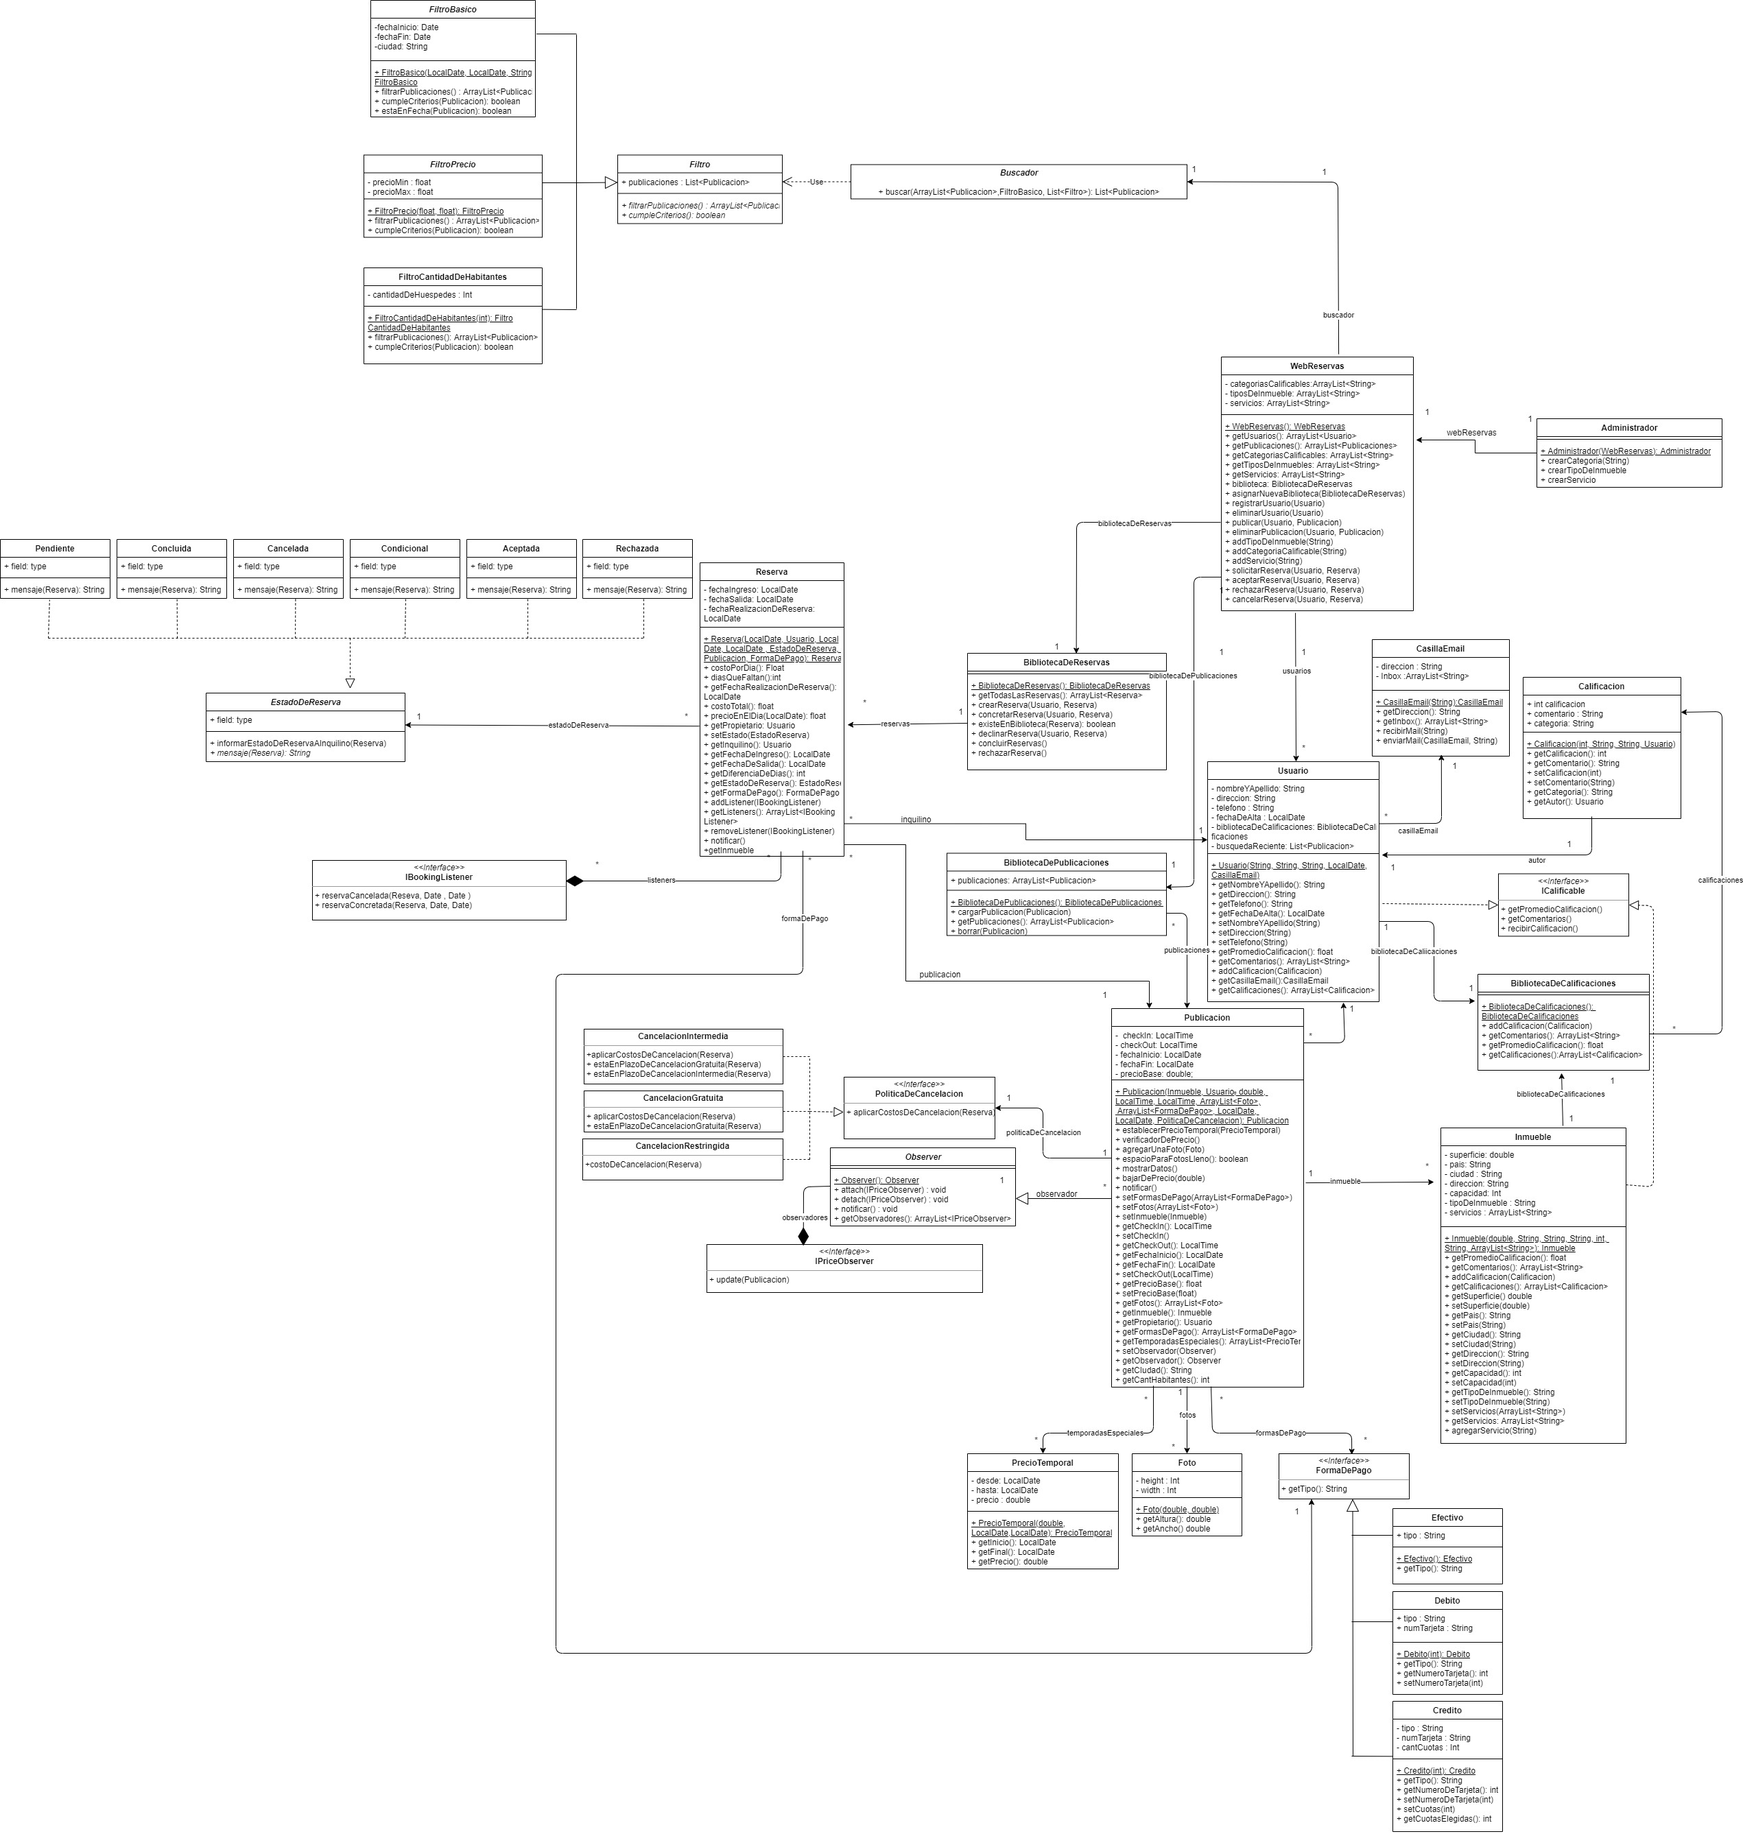
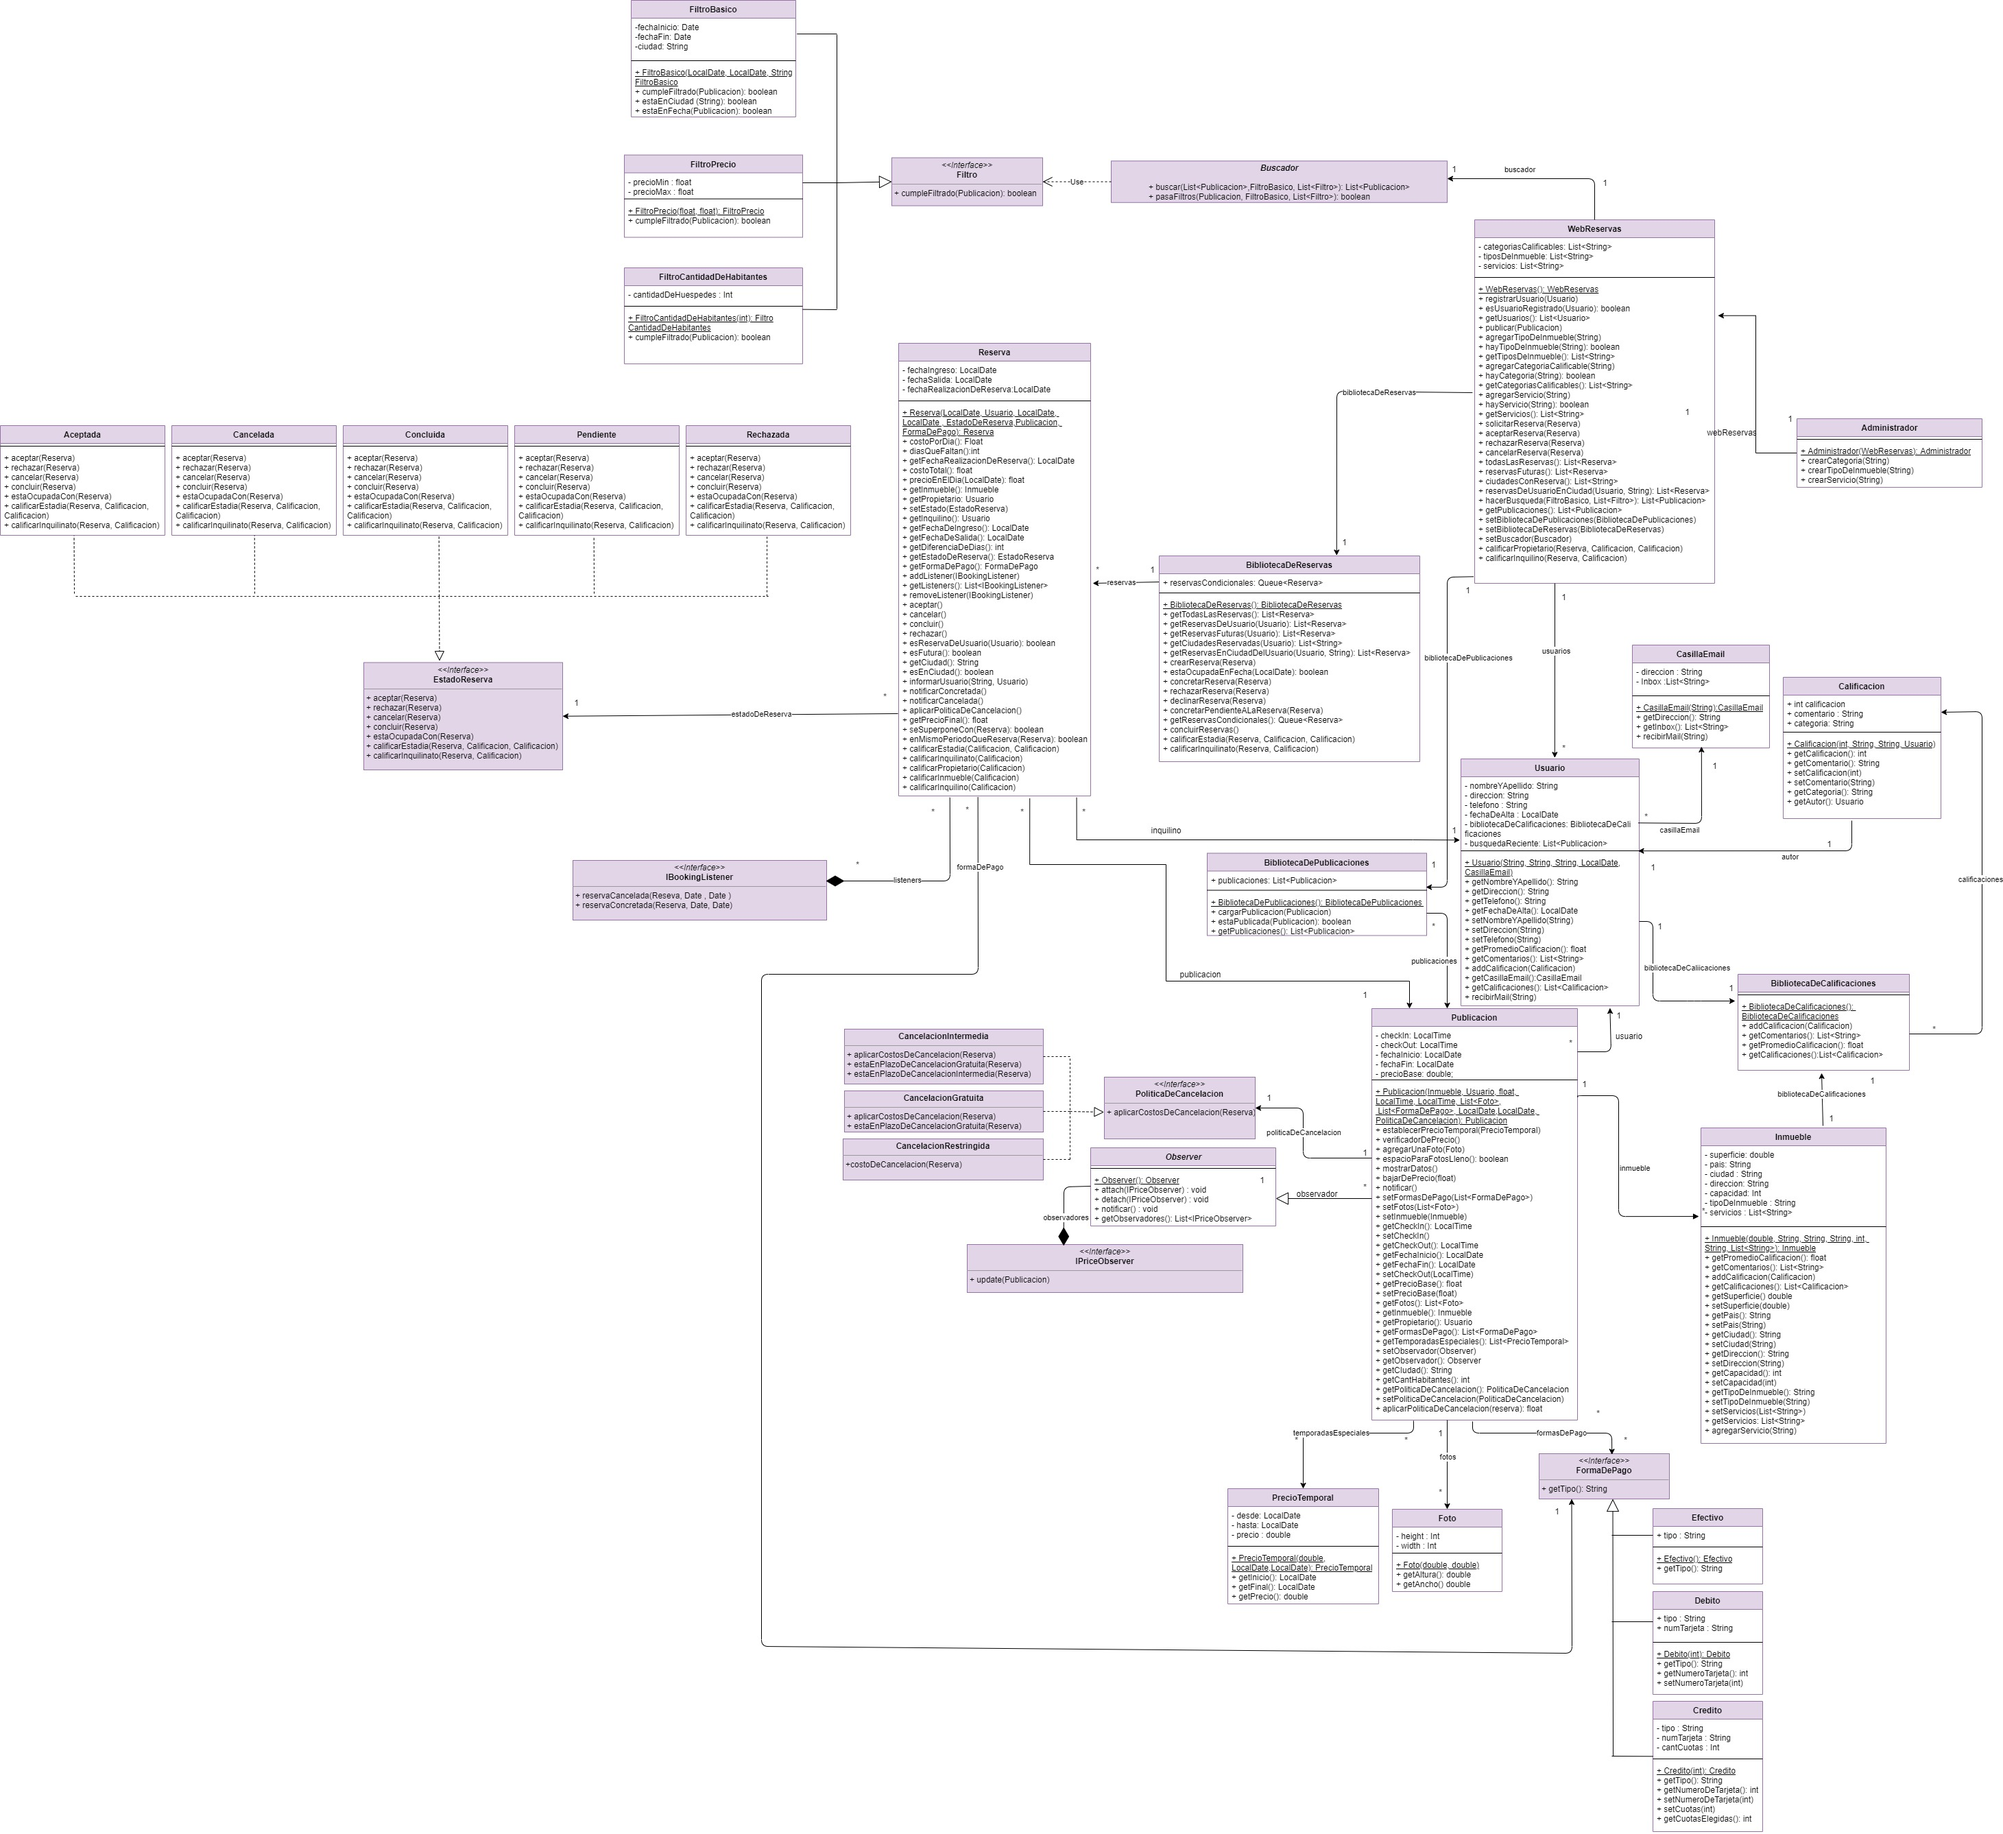
subo UML y fixeo un par de cosas

diff --git a/src/ar/edu/unq/po2/alquilerestemporales/publicacion/Publicacion.java b/src/ar/edu/unq/po2/alquilerestemporales/publicacion/Publicacion.java
@@ -17,7 +17,7 @@ public class Publicacion {
 	private LocalTime checkOut;
 	private LocalDate fechaInicio;
 	private LocalDate fechaFin;
-	private double precioBase;
+	private float precioBase;
 	private Inmueble inmueble;
 	private List <Foto> fotos;
 	private Usuario usuario;
@@ -26,7 +26,7 @@ public class Publicacion {
 	private Observer observador;
 	private PoliticaDeCancelacion politicaCancelacion;
 	
-	public Publicacion(Inmueble inmueble, Usuario usuario, double precioBase, LocalTime checkIn, 
+	public Publicacion(Inmueble inmueble, Usuario usuario, float precioBase, LocalTime checkIn, 
 			LocalTime checkOut, List<Foto> fotos, List <FormaDePago> formasDePago,
 			LocalDate fecIni, LocalDate fecFin, PoliticaDeCancelacion politCancelacion) {
 		
@@ -87,7 +87,7 @@ public class Publicacion {
 		
 	}
 	
-	public void bajarDePrecio(double nuevoPrecio) {
+	public void bajarDePrecio(float nuevoPrecio) {
 		if (nuevoPrecio < this.getPrecioBase()) { //Cumple estrictamente la funcion de bajar, caso contrario 
 			this.setPrecioBase(nuevoPrecio);      //se deberia utilizar otro metodo.
 			this.notificar();	
@@ -139,10 +139,10 @@ public class Publicacion {
 	}
 
 	public float getPrecioBase() {
-		return (float) precioBase;
+		return precioBase;
 	}
 
-	public void setPrecioBase(double precioBase) {
+	public void setPrecioBase(float precioBase) {
 		this.precioBase = precioBase;
 	}
 	

diff --git a/test/ar/edu/unq/po2/alquilerestemporales/PublicacionTestCase.java b/test/ar/edu/unq/po2/alquilerestemporales/PublicacionTestCase.java
@@ -36,7 +36,7 @@ class PublicacionTestCase {
 	private static LocalTime checkIn;
 	private static LocalTime checkOut;
 	private static LocalTime checkOut2;
-	private double precioBase;
+	private float precioBase;
 	private Inmueble inmueble;
 	private List <Foto> fotos;
 	private Foto foto1;
@@ -80,7 +80,7 @@ class PublicacionTestCase {
 		efectivo = mock(Efectivo.class);
 		formasDePago = new ArrayList <FormaDePago>(); 
 		fotos = new ArrayList <Foto>() ;
-		precioBase = 500;
+		precioBase = 500f;
 		politicaCancelacion = mock(PoliticaDeCancelacion.class);
 		publicacion = new Publicacion(inmueble, usuario, precioBase, checkIn, checkOut, fotos, 
 				formasDePago, fechaInicioPublicacion,fechaFinPublicacion, politicaCancelacion);

diff --git a/src/ar/edu/unq/po2/alquilerestemporales/webReservas/Buscador.java b/src/ar/edu/unq/po2/alquilerestemporales/webReservas/Buscador.java
@@ -11,9 +11,9 @@ public class Buscador {
 
     public Buscador(){}
 
-    public ArrayList<Publicacion> buscar (List<Publicacion> publicaciones, FiltroBasico filtroBasico, List<Filtro> filtrosExtra){
+    public List<Publicacion> buscar (List<Publicacion> publicaciones, FiltroBasico filtroBasico, List<Filtro> filtrosExtra){
         
-        ArrayList<Publicacion> filtradas = new ArrayList<Publicacion>();
+        List<Publicacion> filtradas = new ArrayList<Publicacion>();
         for(Publicacion publicacion : publicaciones){
             if(this.pasaFiltros(publicacion, filtroBasico, filtrosExtra)){
                 filtradas.add(publicacion);
